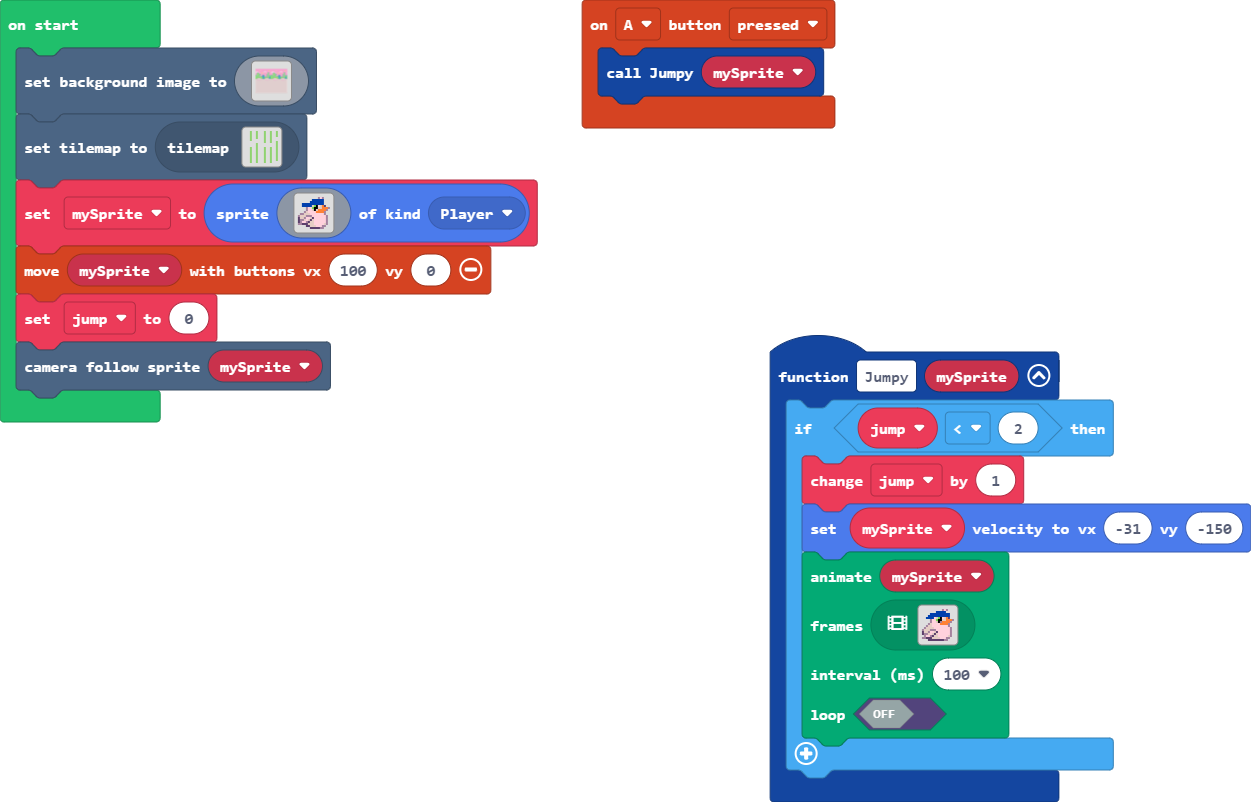
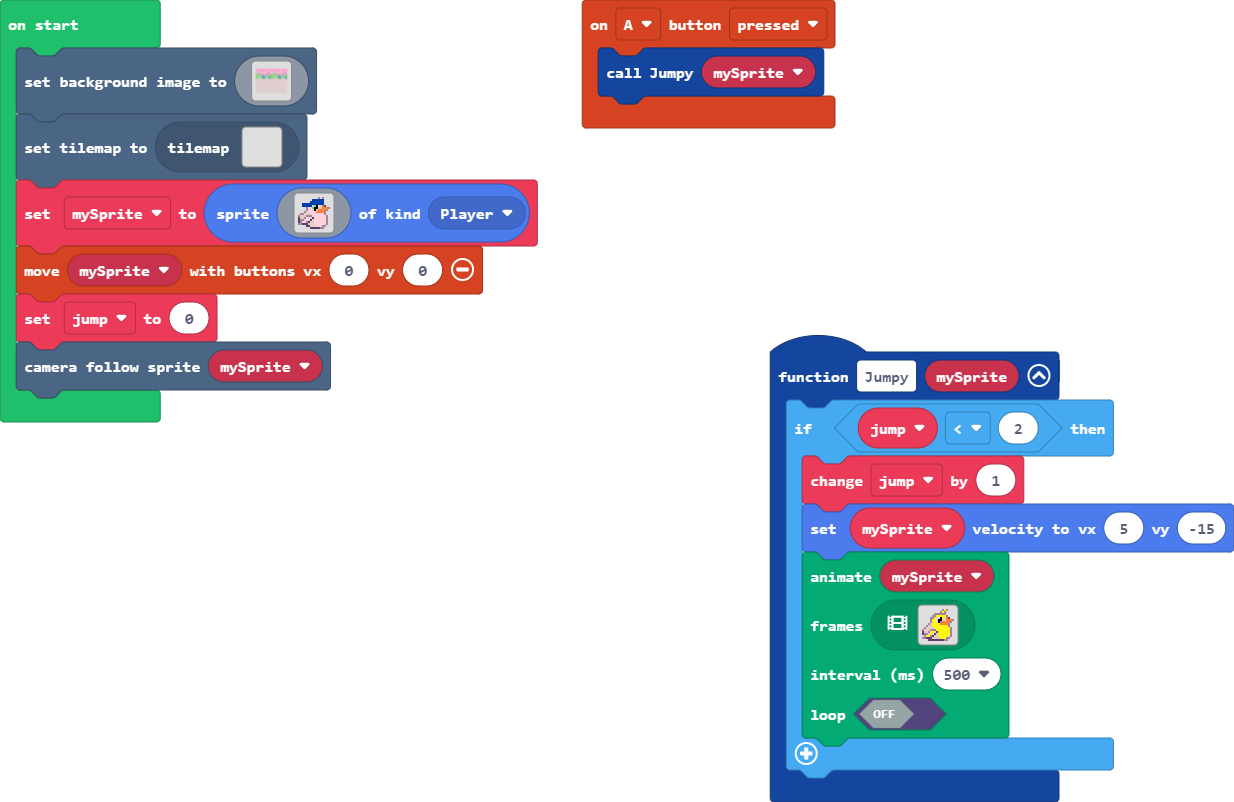
Velocity

diff --git a/main.ts b/main.ts
@@ -1,7 +1,7 @@
 function Jumpy (mySprite: Sprite) {
     if (jump < 2) {
         jump += 1
-        mySprite.setVelocity(-31, -150)
+        mySprite.setVelocity(5, -15)
         animation.runImageAnimation(
         mySprite,
         [img`
@@ -207,6 +207,6 @@ mySprite = sprites.create(img`
     . . . . c c d d d 1 1 1 b b . . 
     . . . . . . c c c c c b b . . . 
     `, SpriteKind.Player)
-controller.moveSprite(mySprite, 100, 0)
+controller.moveSprite(mySprite, 0, 0)
 jump = 0
 scene.cameraFollowSprite(mySprite)
